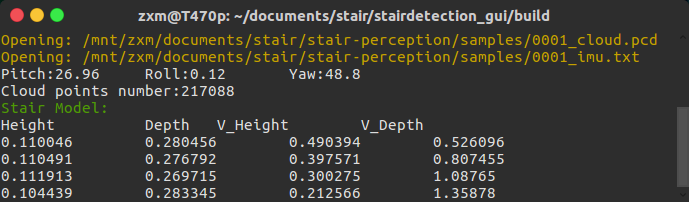
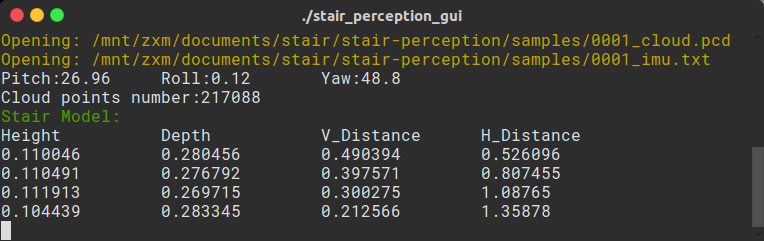
update readme

diff --git a/test/processor.cpp b/test/processor.cpp
@@ -52,26 +52,11 @@ void DProcessor::resolve_result(Stair stair)
         Node *pnext;
         pnext = stair.getHead();
 
-        std::cout << GREEN << "Stair Model:" << RESET << std::endl;
         while (true)
         {
             if (pnext->pnext_type == step_point)
             {
                 auto *pstep = (Step *) (pnext->pnext);
-//                 std::cout << "[step" << pstep->count << "]:" << std::endl;
-//                 std::cout << "point cloud vertical" << std::endl;
-//                 std::cout << "\tpoints number: " << pstep->plane_v->cloud.points.size()<< std::endl;
-//                 std::cout << "\theight: " << pstep->height << std::endl;
-//                 std::cout << "point cloud horizontal" << std::endl;
-//                 std::cout << "\tpoints number: " << pstep->plane_h->cloud.points.size()<< std::endl;
-//                 std::cout << "\tdepth:  " << pstep->depth << std::endl;
-//                 std::cout << "convex line: " << std::endl;
-//                 std::cout << "\t" << "coeff: ";
-//                 for(size_t i = 0; i < pstep->line.coeff.values.size(); i++)
-//                     std::cout << pstep->line.coeff.values[i] << " ";
-//                 std::cout << std::endl << "\th:" << pstep->line.h ;
-//                 std::cout << std::endl << "\td:" << pstep->line.d ;
-//                 std::cout << std::endl;
                 tmp_result.height = pstep->height * 1000;
                 tmp_result.width = pstep->depth * 1000;
                 tmp_result.v_height = pstep->line.h * 1000;
@@ -82,9 +67,6 @@ void DProcessor::resolve_result(Stair stair)
             pnext = pnext->pnext;
         }
 
-//         std::cout.precision(3);
-//         std::cout << "height:" << result.height << "\twidth:" << result.width
-//                 << "v_height:" << result.v_height << "\tv_depth:" << result.v_depth <<std::endl;
         if(tmp_result.height > 80 && tmp_result.height < 150)
             result.height = tmp_result.height;
 
@@ -96,67 +78,6 @@ void DProcessor::resolve_result(Stair stair)
 
         if(tmp_result.v_depth > 0 && tmp_result.v_depth < 600)
             result.v_depth = tmp_result.v_depth;
-
-//        if (result_count >= 20) result_count = 0;
-//
-//        if (first_result)
-//        {
-//            first_result = false;
-//            for (auto &i : result_buff)
-//                i = tmp_result;
-//
-//            result = tmp_result;
-//        } else
-//        {
-//            result_buff[result_count++] = tmp_result;
-//
-//            float tmp_h = 0, tmp_w = 0;
-//            int cnt_h = 0, cnt_w = 0;
-//            for (auto &i : result_buff)
-//            {
-//                if (i.height > 0)
-//                {
-//                    cnt_h++;
-//                    tmp_h += i.height;
-//                }
-//                if (i.width > 0)
-//                {
-//                    cnt_w++;
-//                    tmp_w += i.width;
-//                }
-//            }
-//            if (cnt_h > 0)
-//                result.height = tmp_h / cnt_h;
-//            if (cnt_w > 0)
-//                result.width = tmp_w / cnt_w;
-//
-//            ///////////////////////////////////////
-//            ///////////TODO: delete test
-//            //result.height = 100;
-//
-//            float tmp_vh = 0, tmp_vd = 0;
-//            int cnt_vh = 0, cnt_vd = 0;
-//            for (int i = 0; i < 5; i++)
-//            {
-//                int index = (i + result_count + 19) % 20;
-//
-//                if (!std::isnan(result_buff[index].v_height))
-//                {
-//                    tmp_vh += result_buff[index].v_height;
-//                    cnt_vh++;
-//                }
-//                if (!std::isnan(result_buff[index].v_depth))
-//                {
-//                    tmp_vd += result_buff[index].v_depth;
-//                    cnt_vd++;
-//                }
-//            }
-//
-//            if (cnt_vh > 0)
-//                result.v_height = tmp_vh / 5;
-//            if (cnt_vd > 0)
-//                result.v_depth = tmp_vd / 5;
-//        }
     }
 }
 

diff --git a/modules/stairperception/StairPerception.cpp b/modules/stairperception/StairPerception.cpp
@@ -268,7 +268,7 @@ void StairDetection::printStairEstParam(Stair &stair)
     pnext = stair.getHead();
 
     std::cout << GREEN << "Stair Model:" << RESET << std::endl;
-    std::cout << "Height\t\tDepth\tV_Height\tV_Depth" << std::endl;
+    std::cout << "Height\t\tDepth\t\tV_Distance\tH_Distance" << std::endl;
     while(true)
     {
         if(pnext->pnext_type == step_point)

diff --git a/README.md b/README.md
@@ -1,19 +1,24 @@
 
 # Introduction
 
-This is a stair perception kit programming with PCL and Qt. It can model the stair and measure the stair's height, width, steps and so on. Tht input data can either be Kinect V2 video stream or saved images and point clouds from disk.
+This is a stair perception kit programming with PCL and Qt which can model the stair and measure the stair's height, width, steps and so on. Tht input data can either be Kinect V2 video stream or saved images and point clouds from disk.
 
-![screenshot](https://raw.githubusercontent.com/Psunshine/stair-perception/master/pic/screenshot1.png)
-![screenshot](https://raw.githubusercontent.com/Psunshine/stair-perception/master/pic/screenshot2.png)
+You can run it in terminal after build scince some useful information not shown in the gui window is printed. The main window is shown below, as you can seen, the visualization of original image and estimated stair model are included. Of course, for the convenience of tuning parameters, some of them can be adjust in the main window (notice some paramerers are not used at last, please refer to the original code). The status bar show some basic infomation including the fist stair parameters, IMU pose and running time.
+![](https://raw.githubusercontent.com/Psunshine/stair-perception/master/pic/screenshot1.png)
 
+You can get more detail stair information in the terminal output. For example, the staircase shown above have **four** steps, each step's geometric parameters such as height and depth are printed.
 <div  align="center">    
-<img src="https://raw.githubusercontent.com/Psunshine/stair-perception/master/pic/stairmodel.png" width = "350" alt="stairmodel" align=center />
+<img src="https://raw.githubusercontent.com/Psunshine/stair-perception/master/pic/screenshot2.png"  alt="terminal" align=center />
+</div>
+
+The meaning of **H**eight, **D**epth, **V_D**istance and **H_D**istance are shown in the picture below.
+<div  align="center">    
+<img src="https://raw.githubusercontent.com/Psunshine/stair-perception/master/pic/stairmodel.png"  alt="stairmodel" align=center />
 </div>
 
 
 For more details about this algorithm, please refer to paper **Real-Time Stairs Geometric Parameters Estimation for Lower Limb Rehabilitation Exoskeleton** on *30th Chinese Control and Decision Conference (2018 CCDC)*.
 
-My algorithm is far from perfect and not stable in some conditions. I will be very glad that if you can push to improve it. :)
 
 # Dependencies
 
